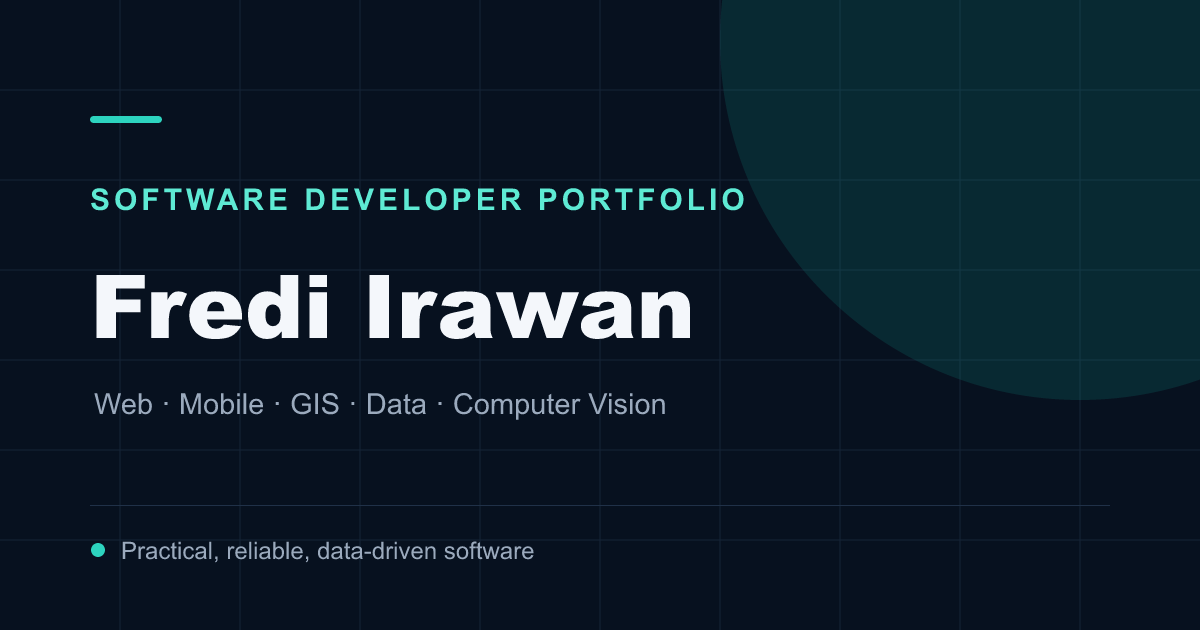
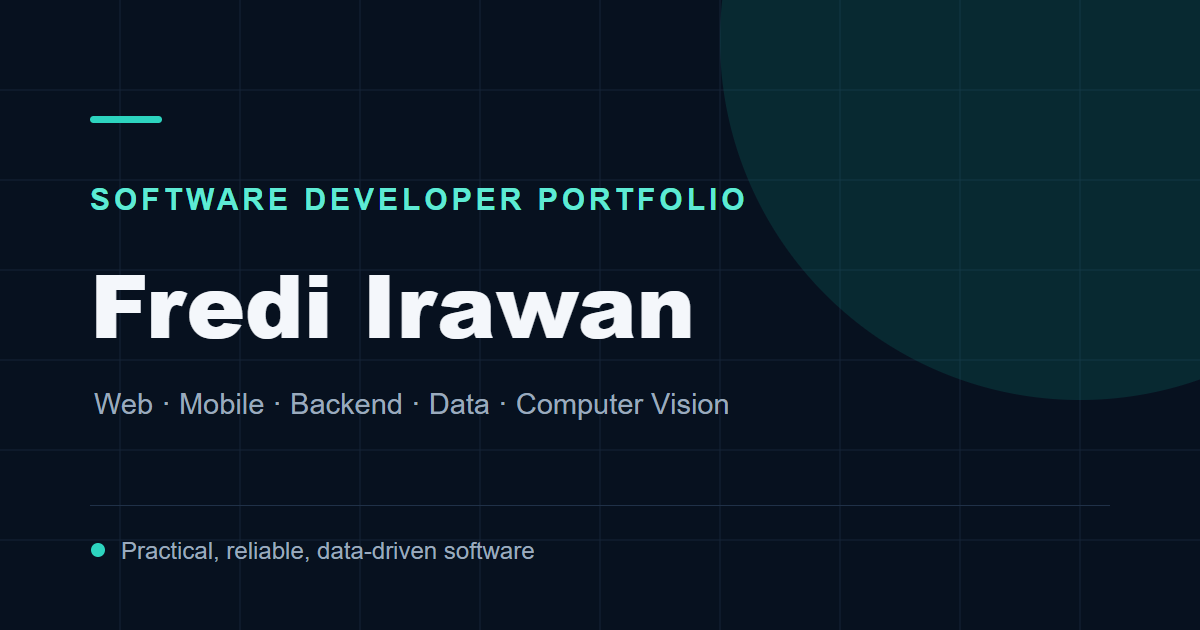
chore: remove GIS/QGIS branding across portfolio copy while preserving web map projects

diff --git a/src/data/projects.ts b/src/data/projects.ts
@@ -70,7 +70,7 @@ export const projects: Project[] = [
       },
     ],
     year: 2026,
-    categories: ['GIS', 'Web'],
+    categories: ['Web', 'Data'],
     technologies: ['JavaScript ES6+', 'HTML5 Canvas', 'Web Audio API', 'Cartography', 'Algorithms'],
     githubUrl: 'https://github.com/Freddy47588/terra-folio',
     liveUrl: 'https://terra-folio.pages.dev',
@@ -201,23 +201,23 @@ export const projects: Project[] = [
   },
   {
     id: 'bandulan-gis',
-    title: 'Bandulan Warung GIS',
+    title: 'Bandulan Warung Map',
     description: {
-      en: 'An interactive Web GIS for exploring local businesses and eleven spatial layers in Bandulan, Malang.',
-      id: 'Web GIS interaktif untuk menjelajahi usaha lokal dan sebelas lapisan spasial di Bandulan, Malang.',
+      en: 'An interactive web map for exploring local businesses and eleven neighborhood map layers in Bandulan, Malang.',
+      id: 'Peta web interaktif untuk menjelajahi usaha lokal dan sebelas lapisan peta wilayah di Bandulan, Malang.',
     },
     overview: {
-      en: 'A browser-based map combining QGIS spatial data preparation with a custom bilingual discovery interface and synchronized layer legend.',
-      id: 'Peta berbasis browser yang memadukan persiapan data spasial QGIS dengan antarmuka penelusuran dwibahasa dan legenda lapisan tersinkronisasi.',
+      en: 'A browser-based interactive map combining structured neighborhood location datasets with a custom bilingual discovery interface and synchronized layer legend.',
+      id: 'Peta interaktif berbasis browser yang memadukan dataset lokasi lingkungan dengan antarmuka penelusuran dwibahasa dan legenda lapisan tersinkronisasi.',
     },
     problem: {
-      en: 'Turns neighborhood spatial datasets into an accessible, searchable Web GIS for understanding local business distribution alongside roads, buildings, and facilities.',
-      id: 'Mengubah dataset spasial kelurahan menjadi Web GIS yang aksesibel dan dapat dicari untuk memahami persebaran warung beserta jaringan jalan, bangunan, dan fasilitas.',
+      en: 'Turns neighborhood location datasets into an accessible, searchable web map for understanding local business distribution alongside roads, buildings, and facilities.',
+      id: 'Mengubah dataset lokasi kelurahan menjadi peta web yang aksesibel dan dapat dicari untuk memahami persebaran warung beserta jaringan jalan, bangunan, dan fasilitas.',
     },
     features: [
       {
-        en: 'Searchable warung locations and eleven toggleable spatial data layers',
-        id: 'Pencarian lokasi warung serta kontrol sebelas lapisan data spasial',
+        en: 'Searchable warung locations and eleven toggleable map layers',
+        id: 'Pencarian lokasi warung serta kontrol sebelas lapisan peta',
       },
       {
         en: 'Metric distance/area measurement, geolocation, and shareable map-view URLs',
@@ -229,8 +229,8 @@ export const projects: Project[] = [
       },
     ],
     year: 2026,
-    categories: ['GIS', 'Web'],
-    technologies: ['QGIS', 'qgis2web', 'Leaflet', 'JavaScript', 'Web GIS'],
+    categories: ['Web', 'Data'],
+    technologies: ['Leaflet', 'JavaScript', 'GeoJSON', 'Interactive Map'],
     githubUrl: 'https://github.com/Freddy47588/bandulan-warung-gis',
     liveUrl: 'https://bandulan-warung-gis.pages.dev/',
     image: 'gis.svg',

diff --git a/src/locales/id.ts b/src/locales/id.ts
@@ -21,18 +21,18 @@ export const id: Translation = {
     eyebrow: 'Mahasiswa Teknik Informatika · Software Developer',
     title: 'Membangun aplikasi web, mobile, dan berbasis data untuk kebutuhan nyata.',
     description:
-      'Mahasiswa Teknik Informatika dan software developer yang mengembangkan solusi praktis di bidang web, mobile, GIS, analitik data, dan computer vision.',
+      'Mahasiswa Teknik Informatika dan software developer yang mengembangkan solusi praktis di bidang web, mobile, analitik data, dan computer vision.',
     projects: 'Jelajahi proyek',
     github: 'Profil GitHub',
     cv: 'Unduh CV',
     availability: 'Terbuka untuk peluang dan kolaborasi',
     workspace: 'Ruang kerja developer',
-    workspaceFocus: ['Web & Mobile', 'GIS & Data', 'Computer Vision'],
+    workspaceFocus: ['Web & Mobile', 'Data & Backend', 'Computer Vision'],
   },
   about: {
     eyebrow: 'Tentang',
     title: 'Perjalanan teknologi yang tumbuh lewat praktik.',
-    body: 'Perjalanan pengembangan saya dimulai dari jurusan Teknik Komputer dan Jaringan di SMK, dilanjutkan dengan praktik pemrograman awal melalui Rakryan Digital Academy dan magang pengembangan perangkat lunak. Saat ini saya masih menempuh pendidikan S1 Teknik Informatika sambil mendalami software engineering, pengembangan web dan mobile, GIS, analitik data, serta computer vision melalui berbagai proyek praktis.',
+    body: 'Perjalanan pengembangan saya dimulai dari jurusan Teknik Komputer dan Jaringan di SMK, dilanjutkan dengan praktik pemrograman awal melalui Rakryan Digital Academy dan magang pengembangan perangkat lunak. Saat ini saya masih menempuh pendidikan S1 Teknik Informatika sambil mendalami software engineering, pengembangan web dan mobile, analitik data, serta computer vision melalui berbagai proyek praktis.',
     location: 'Lokasi',
     focus: 'Fokus saat ini',
     focusValue: 'Software engineering & computer vision',
@@ -49,7 +49,7 @@ export const id: Translation = {
     eyebrow: 'Karya pilihan',
     title: 'Proyek yang berangkat dari kebutuhan nyata',
     description:
-      'Pilihan terarah dalam software engineering, data spasial, analitik, mobile, computer vision, dan teknologi interaktif.',
+      'Pilihan terarah dalam software engineering, aplikasi web interaktif, analitik, mobile, computer vision, dan AR.',
     all: 'Semua',
     details: 'Lihat detail',
     github: 'Kode sumber',
@@ -75,7 +75,6 @@ export const id: Translation = {
     filters: {
       Web: 'Web',
       Mobile: 'Mobile',
-      GIS: 'GIS',
       Data: 'Data',
       'Computer Vision': 'Computer Vision',
       AR: 'AR',
@@ -85,7 +84,7 @@ export const id: Translation = {
     eyebrow: 'Pengalaman',
     title: 'Belajar melalui pekerjaan praktis',
     description:
-      'Dua pengalaman magang yang mencakup pengembangan perangkat lunak, sistem web, analitik, persiapan data GIS, pengujian, dan dokumentasi.',
+      'Dua pengalaman magang yang mencakup pengembangan perangkat lunak, sistem web, analitik, persiapan data terstruktur, pengujian, dan dokumentasi.',
     highlights: 'Pekerjaan pilihan',
   },
   education: {

diff --git a/src/locales/en.ts b/src/locales/en.ts
@@ -21,18 +21,18 @@ export const en: Translation = {
     eyebrow: 'Informatics Student · Software Developer',
     title: 'Building practical web, mobile, and data-driven software.',
     description:
-      'Informatics student and software developer creating reliable applications across web, mobile, GIS, data analytics, and computer vision.',
+      'Informatics student and software developer creating reliable applications across web, mobile, data analytics, and computer vision.',
     projects: 'Explore projects',
     github: 'GitHub profile',
     cv: 'Download CV',
     availability: 'Open to opportunities and collaboration',
     workspace: 'Developer workspace',
-    workspaceFocus: ['Web & Mobile', 'GIS & Data', 'Computer Vision'],
+    workspaceFocus: ['Web & Mobile', 'Data & Backend', 'Computer Vision'],
   },
   about: {
     eyebrow: 'About',
     title: 'A hands-on path through technology.',
-    body: 'My development journey began in Computer and Network Engineering at vocational school, with early programming practice through Rakryan Digital Academy and a software development internship. I am now pursuing an undergraduate degree in Informatics while exploring software engineering, web and mobile development, GIS, data analytics, and computer vision through practical projects.',
+    body: 'My development journey began in Computer and Network Engineering at vocational school, with early programming practice through Rakryan Digital Academy and a software development internship. I am now pursuing an undergraduate degree in Informatics while exploring software engineering, web and mobile development, data analytics, and computer vision through practical projects.',
     location: 'Location',
     focus: 'Current focus',
     focusValue: 'Software engineering & computer vision',
@@ -49,7 +49,7 @@ export const en: Translation = {
     eyebrow: 'Selected work',
     title: 'Projects grounded in real use cases',
     description:
-      'A focused selection across software engineering, spatial data, analytics, mobile, computer vision, and interactive technology.',
+      'A focused selection across software engineering, interactive web applications, analytics, mobile, computer vision, and AR.',
     all: 'All',
     details: 'View details',
     github: 'Source code',
@@ -75,7 +75,6 @@ export const en: Translation = {
     filters: {
       Web: 'Web',
       Mobile: 'Mobile',
-      GIS: 'GIS',
       Data: 'Data',
       'Computer Vision': 'Computer Vision',
       AR: 'AR',
@@ -85,7 +84,7 @@ export const en: Translation = {
     eyebrow: 'Experience',
     title: 'Learning through practical work',
     description:
-      'Two internships spanning software development, web systems, analytics, GIS data preparation, testing, and documentation.',
+      'Two internships spanning software development, web systems, analytics, structured data preparation, testing, and documentation.',
     highlights: 'Selected work',
   },
   education: {

diff --git a/src/data/experience.ts b/src/data/experience.ts
@@ -8,8 +8,8 @@ export const experiences: Experience[] = [
     role: { en: 'IT / Web Development Intern', id: 'Magang IT / Web Development' },
     period: { en: 'February 2026 – July 2026', id: 'Februari 2026 – Juli 2026' },
     summary: {
-      en: 'Contributed to web, analytics, GIS, information-system, database, forecasting, testing, and documentation work across several internal and public-facing initiatives.',
-      id: 'Berkontribusi pada pekerjaan web, analitik, GIS, sistem informasi, basis data, forecasting, pengujian, dan dokumentasi dalam beberapa inisiatif internal maupun publik.',
+      en: 'Contributed to web, analytics, location data, information-system, database, forecasting, testing, and documentation work across several internal and public-facing initiatives.',
+      id: 'Berkontribusi pada pekerjaan web, analitik, pemetaan data, sistem informasi, basis data, forecasting, pengujian, dan dokumentasi dalam beberapa inisiatif internal maupun publik.',
     },
     highlights: [
       {
@@ -17,15 +17,15 @@ export const experiences: Experience[] = [
         id: 'Harmoni Sains / OJS: mendukung struktur jurnal, antarmuka responsif, konten dan metadata, navigasi, konfigurasi multi-jurnal, serta pengujian usability.',
       },
       {
-        en: 'UMKM GIS Directory: collected and validated records, handled duplicates, normalized categories, prepared locations, and produced GIS-ready CSV datasets.',
-        id: 'Direktori GIS UMKM: mengumpulkan dan memvalidasi data, menangani duplikasi, menormalisasi kategori, menyiapkan lokasi, dan menghasilkan dataset CSV siap GIS.',
+        en: 'UMKM Location Directory: collected and validated records, handled duplicates, normalized categories, prepared location coordinates, and produced structured CSV datasets.',
+        id: 'Direktori Lokasi UMKM: mengumpulkan dan memvalidasi data, menangani duplikasi, menormalisasi kategori, menyiapkan koordinat lokasi, dan menghasilkan dataset CSV terstruktur.',
       },
       {
         en: 'Wearemania Analytics: worked on CSV upload, validation, cleaning, URL normalization, category mapping, dashboards, visualization, and ARIMA time-series preparation.',
         id: 'Analitik Wearemania: mengerjakan unggah CSV, validasi, pembersihan, normalisasi URL, pemetaan kategori, dashboard, visualisasi, dan persiapan deret waktu ARIMA.',
       },
     ],
-    technologies: ['Django', 'Python', 'CSV', 'GIS', 'OJS', 'ARIMA', 'Testing'],
+    technologies: ['Django', 'Python', 'CSV', 'Data Cleaning', 'OJS', 'ARIMA', 'Testing'],
   },
   {
     id: 'berkah-2022',

diff --git a/index.html b/index.html
@@ -6,12 +6,12 @@
     <meta name="theme-color" content="#07111f" />
     <meta
       name="description"
-      content="Fredi Irawan is an Informatics student and software developer creating reliable applications across web, mobile, GIS, data analytics, and computer vision."
+      content="Fredi Irawan is an Informatics student and software developer creating reliable applications across web, mobile, data analytics, and computer vision."
     />
     <meta property="og:title" content="Fredi Irawan | Software Developer Portfolio" />
     <meta
       property="og:description"
-      content="An Informatics student and software developer creating reliable web, mobile, GIS, data analytics, and computer vision applications."
+      content="An Informatics student and software developer creating reliable web, mobile, data analytics, and computer vision applications."
     />
     <meta property="og:type" content="website" />
     <meta property="og:url" content="https://fredi-irawan-portfolio.pages.dev/" />
@@ -26,7 +26,7 @@
     <meta name="twitter:title" content="Fredi Irawan | Software Developer Portfolio" />
     <meta
       name="twitter:description"
-      content="An Informatics student and software developer creating reliable web, mobile, GIS, data analytics, and computer vision applications."
+      content="An Informatics student and software developer creating reliable web, mobile, data analytics, and computer vision applications."
     />
     <meta
       name="twitter:image"

diff --git a/src/components/sections/Hero.tsx b/src/components/sections/Hero.tsx
@@ -1,9 +1,9 @@
 import {
   ArrowDown,
   ArrowUpRight,
+  Database,
   FileText,
   GitBranch,
-  Map,
   MapPin,
   MonitorSmartphone,
   ScanSearch,
@@ -83,7 +83,7 @@ export function Hero() {
               <span>{t.hero.workspaceFocus[0]}</span>
             </li>
             <li>
-              <Map aria-hidden="true" />
+              <Database aria-hidden="true" />
               <span>{t.hero.workspaceFocus[1]}</span>
             </li>
             <li>

diff --git a/src/data/education.ts b/src/data/education.ts
@@ -17,7 +17,7 @@ export const education: Education[] = [
       { en: 'Software engineering', id: 'Rekayasa perangkat lunak' },
       { en: 'Computer vision', id: 'Computer vision' },
       { en: 'Web & mobile systems', id: 'Sistem web & mobile' },
-      { en: 'Data & spatial analysis', id: 'Analisis data & spasial' },
+      { en: 'Data analytics & modeling', id: 'Analitik & pemodelan data' },
     ],
     featured: true,
   },

diff --git a/src/types/index.ts b/src/types/index.ts
@@ -2,7 +2,7 @@ export type Locale = 'en' | 'id';
 export type Theme = 'dark' | 'light';
 export type LocalizedText = Record<Locale, string>;
 
-export type ProjectCategory = 'Web' | 'Mobile' | 'GIS' | 'Data' | 'Computer Vision' | 'AR';
+export type ProjectCategory = 'Web' | 'Mobile' | 'Data' | 'Computer Vision' | 'AR';
 export type ProjectStatus = 'active' | 'completed' | 'experimental' | 'academic';
 
 export interface Project {

diff --git a/src/components/sections/Projects.tsx b/src/components/sections/Projects.tsx
@@ -9,7 +9,7 @@ import { Reveal } from '../ui/Reveal';
 import { SectionHeading } from '../ui/SectionHeading';
 
 type Filter = 'All' | ProjectCategory;
-const filters: Filter[] = ['All', 'Web', 'Mobile', 'GIS', 'Data', 'Computer Vision', 'AR'];
+const filters: Filter[] = ['All', 'Web', 'Mobile', 'Data', 'Computer Vision', 'AR'];
 
 export function Projects() {
   const { locale, t } = useLanguage();

diff --git a/README.md b/README.md
@@ -2,7 +2,7 @@
 
 [![Live Demo](https://img.shields.io/badge/▶%20LIVE%20DEMO-Cloudflare%20Pages-F38020?style=for-the-badge&logo=cloudflarepages&logoColor=white)](https://fredi-irawan-portfolio.pages.dev)
 
-A production-ready bilingual portfolio for Fredi Irawan, an Informatics student and software developer in Malang, East Java, Indonesia. The site presents verified education, training, internships, credentials, and selected projects across web, mobile, GIS, data analytics, computer vision, and augmented reality.
+A production-ready bilingual portfolio for Fredi Irawan, an Informatics student and software developer in Malang, East Java, Indonesia. The site presents verified education, training, internships, credentials, and selected projects across web, mobile, data analytics, computer vision, and augmented reality.
 
 ## ✨ Features
 
